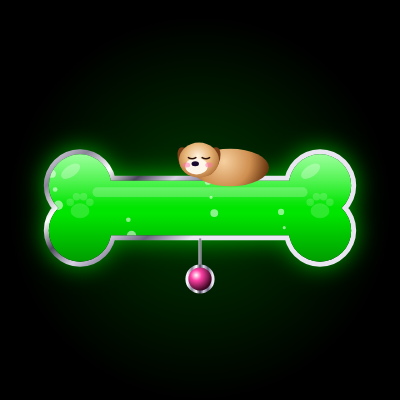
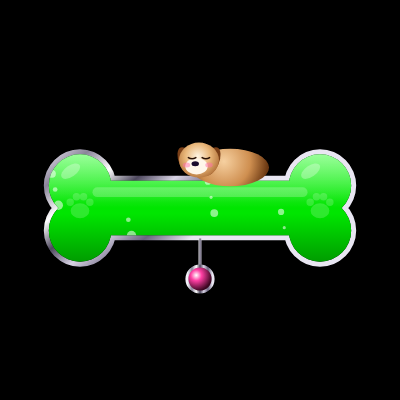
Écran éteint : batteries AOD en noir OLED pur (sans halo gris) + aperçu de la Veille puppy rétabli
- Plus de halo coloré autour des batteries « Gamelle de verre » et « Os lumineux » (Veille puppy et GIF AOD)
- GIF AOD régénérés avec un fond noir absolu, plus légers
- Aperçu : luminosité normale pour bien voir, et repli sur l'écran d'aperçu si la fenêtre PupNav n'est pas disponible

Claude-Session: https://claude.ai/code/session_01ACw2FVWAJrF68PsL7Qt6zi

Changed region(s): [[0.06, 0.24, 0.93, 0.81]]

diff --git a/app/src/main/assets/www/aodbat.js b/app/src/main/assets/www/aodbat.js
@@ -14,12 +14,12 @@
   function liquidColor(p) { const h = Math.max(0, Math.min(120, p * 1.2)); return [hsl(h, 100, 62), hsl(h, 100, 45), hsl(h, 100, 30), h]; }
   function bolt(c, x, y, s, a) {
     c.save(); c.translate(x, y); c.scale(s / 36, s / 36); c.globalAlpha = a;
-    c.shadowColor = '#ffb627'; c.shadowBlur = 18; c.fillStyle = '#fff8c9'; c.strokeStyle = '#ffb627'; c.lineWidth = 2;
+    c.shadowColor = '#ffb627'; c.shadowBlur = 4; c.fillStyle = '#fff8c9'; c.strokeStyle = '#ffb627'; c.lineWidth = 2;
     c.beginPath(); c.moveTo(14, 1); c.lineTo(2, 21); c.lineTo(10, 21); c.lineTo(7, 35); c.lineTo(22, 13); c.lineTo(13, 13); c.closePath(); c.fill(); c.stroke(); c.restore();
   }
   function pctText(c, x, y, size, pct, col) {
     c.save(); c.font = `${size}px Bungee, Impact, sans-serif`; c.textAlign = 'center'; c.textBaseline = 'middle';
-    c.shadowColor = col; c.shadowBlur = size * .35; c.fillStyle = '#fff'; c.fillText(pct + '%', x, y);
+    c.shadowColor = col; c.shadowBlur = size * .08; c.fillStyle = '#fff'; c.fillText(pct + '%', x, y);
     c.shadowBlur = 0; c.lineWidth = Math.max(1, size * .04); c.strokeStyle = 'rgba(0,0,0,.45)'; c.strokeText(pct + '%', x, y); c.restore();
   }
   // mini chiot endormi (posé sur la batterie)
@@ -41,11 +41,11 @@
     const bw = w * .78, bh = bw * .44, x0 = (w - bw) / 2 - w * .03, y0 = h * .52 - bh / 2, r = bh * .22, pad = bh * .08;
     const [l1, l2, l3, hue] = liquidColor(pct);
     // halo
-    c.fillStyle = RG(c, x0 + bw / 2, y0 + bh / 2, bw * .75, [[0, hsl(hue, 100, 50, .22)], [1, hsl(hue, 100, 50, 0)]]); c.fillRect(0, 0, w, h);
+    // noir OLED : pas de halo autour
     // embout
     c.fillStyle = chrome(c, 0, y0 + bh * .3, 0, y0 + bh * .7); c.beginPath(); c.roundRect(x0 + bw - 2, y0 + bh * .3, bw * .07, bh * .4, [0, r * .5, r * .5, 0]); c.fill();
     // cadre chromé
-    c.save(); c.shadowColor = hsl(hue, 100, 50, .6); c.shadowBlur = bh * .25;
+    c.save();
     c.fillStyle = chrome(c, x0, y0, x0 + bw * .4, y0 + bh); c.beginPath(); c.roundRect(x0, y0, bw, bh, r); c.fill(); c.restore();
     for (const [rx, ry] of [[x0 + pad * 1.3, y0 + pad * 1.3], [x0 + bw - pad * 1.3, y0 + pad * 1.3], [x0 + pad * 1.3, y0 + bh - pad * 1.3], [x0 + bw - pad * 1.3, y0 + bh - pad * 1.3]]) rivet(c, rx, ry, bh * .035);
     // intérieur en verre
@@ -80,9 +80,9 @@
       c.beginPath(); c.roundRect(x0, cy - tube / 2 - grow, L, tube + grow * 2, tube / 2);
       for (const [bx, by] of [[x0, cy - R * .72], [x0, cy + R * .72], [x1, cy - R * .72], [x1, cy + R * .72]]) { c.moveTo(bx + R + grow, by); c.arc(bx, by, R + grow, 0, 7); }
     };
-    c.fillStyle = RG(c, cx, cy, L * .8, [[0, hsl(hue, 100, 50, .22)], [1, hsl(hue, 100, 50, 0)]]); c.fillRect(0, 0, w, h);
+    // noir OLED : pas de halo autour
     // coque chromée
-    c.save(); c.shadowColor = hsl(hue, 100, 50, .6); c.shadowBlur = R * .8; c.fillStyle = chrome(c, x0 - R, cy - R * 2, x0 + L * .3, cy + R * 2); bone(R * .16); c.fill('nonzero'); c.restore();
+    c.save(); c.fillStyle = chrome(c, x0 - R, cy - R * 2, x0 + L * .3, cy + R * 2); bone(R * .16); c.fill('nonzero'); c.restore();
     // verre sombre
     c.fillStyle = LG(c, 0, cy - R * 2, 0, cy + R * 2, [[0, '#120a20'], [1, '#030106']]); bone(); c.fill('nonzero');
     // liquide

diff --git a/app/src/main/assets/www/veille.html b/app/src/main/assets/www/veille.html
@@ -8,13 +8,13 @@
 <style>
 body.veille{background:#000;overflow:hidden;margin:0}
 #vw{position:fixed;left:50%;top:50%;width:min(92vw,520px);transform:translate(-50%,-50%);display:flex;flex-direction:column;align-items:center;gap:6px;transition:transform 6s ease-in-out,opacity 2s}
-#vclock{font-family:var(--f-head);font-size:min(24vw,130px);line-height:1;color:#fff;letter-spacing:.02em;text-shadow:0 0 8px #fff,0 0 22px var(--acc),0 0 48px var(--acc)}
+#vclock{font-family:var(--f-head);font-size:min(24vw,130px);line-height:1;color:#fff;letter-spacing:.02em;text-shadow:0 0 4px #fff,0 0 10px var(--acc)}
 #vclock i{font-style:normal;animation:vb 2s steps(1) infinite}
 @keyframes vb{50%{opacity:.25}}
-#vdate{font-family:var(--f-neon);font-size:min(6vw,30px);word-spacing:.3em;color:var(--acc2);text-shadow:0 0 8px var(--acc2),0 0 20px var(--acc2);text-transform:capitalize;white-space:nowrap}
+#vdate{font-family:var(--f-neon);font-size:min(6vw,30px);word-spacing:.3em;color:var(--acc2);text-shadow:0 0 6px var(--acc2);text-transform:capitalize;white-space:nowrap}
 #vbat{width:100%;aspect-ratio:1;margin-top:-6%}
 #vsay{font-family:var(--f-num);font-size:min(3.4vw,14px);letter-spacing:.14em;color:#cdbfe0;text-transform:uppercase;margin-top:-10%;text-align:center}
-body.lum0 #vw{filter:brightness(.55)} body.lum1 #vw{filter:brightness(.68)}
+body.lum0 #vw{opacity:.55} body.lum1 #vw{opacity:.7}
 body.dodo #vw{opacity:0}
 </style>
 </head>

diff --git a/app/src/main/java/fr/piika/puppyphone/PupVeille.java b/app/src/main/java/fr/piika/puppyphone/PupVeille.java
@@ -95,11 +95,16 @@ final class PupVeille {
                 PixelFormat.OPAQUE);
         lp.gravity = Gravity.TOP | Gravity.START;
         // la « ruse du lecteur vidéo » : la fenêtre impose sa luminosité à l'écran
-        lp.screenBrightness = lum >= 2 ? WindowManager.LayoutParams.BRIGHTNESS_OVERRIDE_NONE : lum == 1 ? 0.12f : 0.03f;
+        lp.screenBrightness = (lum >= 2 || preview) ? WindowManager.LayoutParams.BRIGHTNESS_OVERRIDE_NONE : lum == 1 ? 0.12f : 0.03f; // aperçu : luminosité normale pour bien voir
         if (Build.VERSION.SDK_INT >= 28) lp.layoutInDisplayCutoutMode = WindowManager.LayoutParams.LAYOUT_IN_DISPLAY_CUTOUT_MODE_SHORT_EDGES;
         lp.setTitle("PupVeille");
         v.setOnTouchListener((x, e) -> { if (e.getAction() == MotionEvent.ACTION_UP) hide(); return true; });
-        try { wm.addView(v, lp); view = v; } catch (Exception e) { s.stop(); s = null; return; }
+        try { wm.addView(v, lp); view = v; }
+        catch (Exception e) {
+            s.stop(); s = null;
+            if (preview) c.startActivity(new Intent(c, sieste ? SiesteActivity.class : VeilleActivity.class).addFlags(Intent.FLAG_ACTIVITY_NEW_TASK).putExtra("preview", true));
+            return;
+        }
         s.start();
         showing = true;
         int sec = sieste ? Sieste.duree(svc) : Pelage.sp(svc).getInt("veilleDuree", 30);
